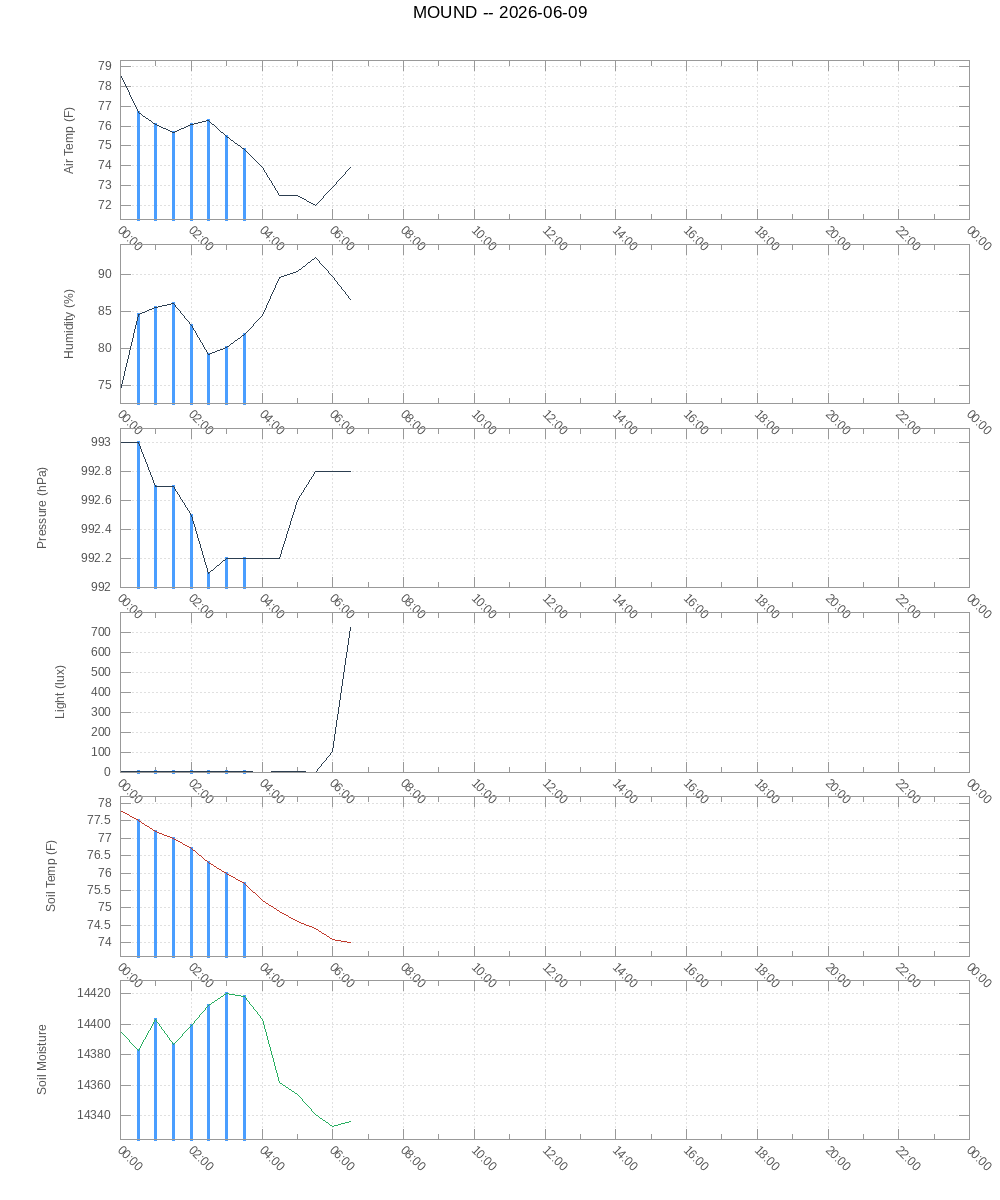
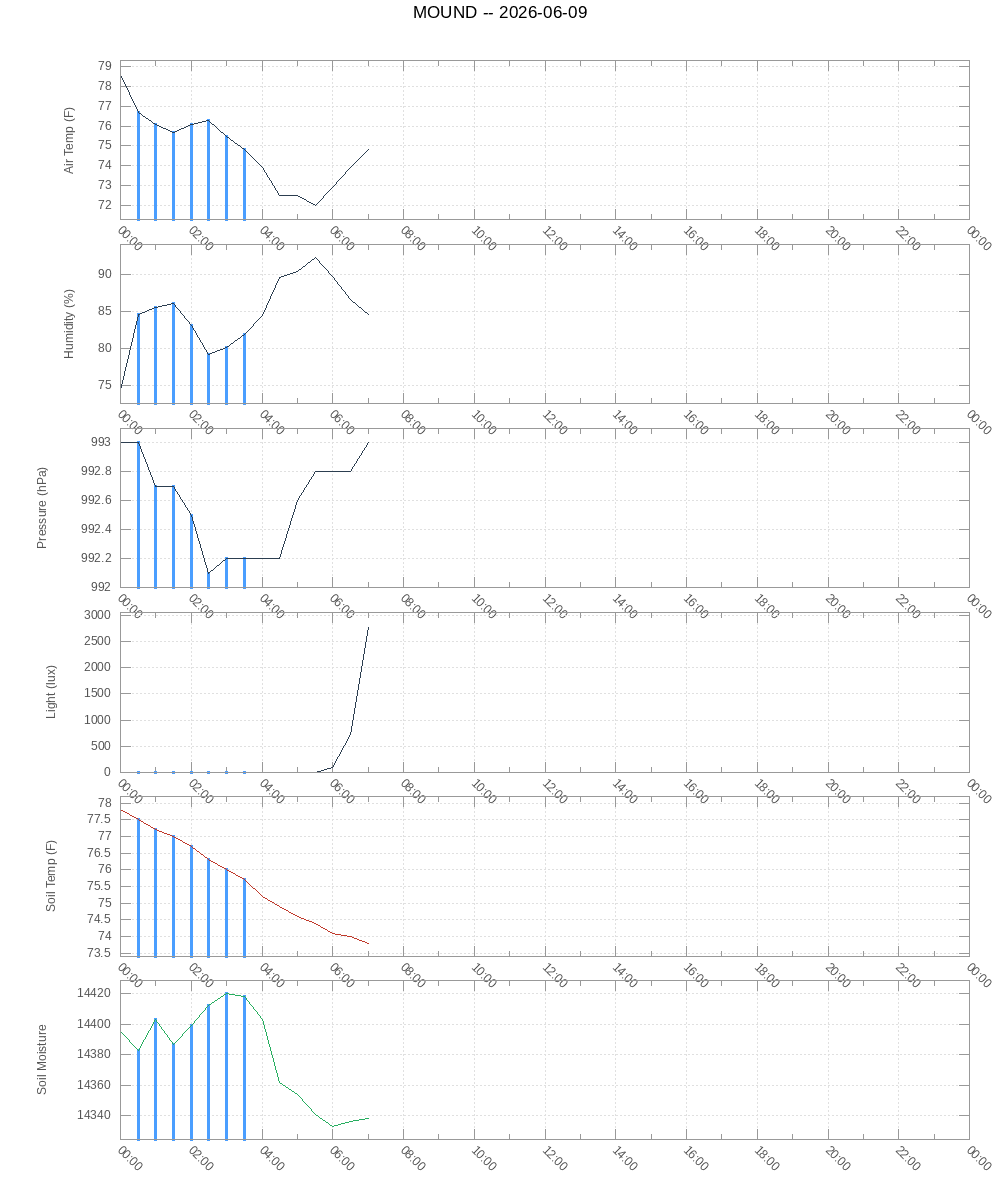
manual graph generation script v2

diff --git a/page/index.html b/page/index.html
@@ -38,14 +38,14 @@
 
       <hr style="border:none; border-top: 1px solid #ccc; margin: 1rem 0;">
 
-      <p><strong>Last reading:</strong> 2026-06-09 06:30:03</p>
+      <p><strong>Last reading:</strong> 2026-06-09 07:00:03</p>
 
       <table style="border:none; border-collapse:collapse; font-family:inherit; font-size:inherit; color:inherit;">
-        <tr><td style="padding: 0.2rem 1.5rem 0.2rem 0;">Air Temperature</td><td>73.9 F</td></tr>
-        <tr><td style="padding: 0.2rem 1.5rem 0.2rem 0;">Humidity</td><td>86.5%</td></tr>
-        <tr><td style="padding: 0.2rem 1.5rem 0.2rem 0;">Pressure</td><td>992.8 hPa</td></tr>
-        <tr><td style="padding: 0.2rem 1.5rem 0.2rem 0;">Light</td><td>725 lux</td></tr>
-        <tr><td style="padding: 0.2rem 1.5rem 0.2rem 0;">Soil Temperature</td><td>74.0 F</td></tr>
+        <tr><td style="padding: 0.2rem 1.5rem 0.2rem 0;">Air Temperature</td><td>74.8 F</td></tr>
+        <tr><td style="padding: 0.2rem 1.5rem 0.2rem 0;">Humidity</td><td>84.5%</td></tr>
+        <tr><td style="padding: 0.2rem 1.5rem 0.2rem 0;">Pressure</td><td>993.0 hPa</td></tr>
+        <tr><td style="padding: 0.2rem 1.5rem 0.2rem 0;">Light</td><td>2773 lux</td></tr>
+        <tr><td style="padding: 0.2rem 1.5rem 0.2rem 0;">Soil Temperature</td><td>73.8 F</td></tr>
         <tr><td style="padding: 0.2rem 1.5rem 0.2rem 0;">Soil Moisture</td><td>Moist</td></tr>
         <tr><td style="padding: 0.2rem 1.5rem 0.2rem 0;">Rain</td><td>No</td></tr>
       </table>

diff --git a/scripts/update_site.py b/scripts/update_site.py
@@ -95,7 +95,7 @@ subprocess.run(['python', '/home/ramblinray/mound/scripts/generate_graphs.py'])
 print("Today's graph generated!")
 
 # -- Archive today's graph at midnight --------------------
-if hour == 0 and minute < 31:
+if hour == 23 and minute >= 30:
     yesterday = (datetime.now() - timedelta(days=1)).strftime('%Y-%m-%d')
     archive_path = f'{archive_dir}/{yesterday}.png'
     if os.path.exists(graph_out):